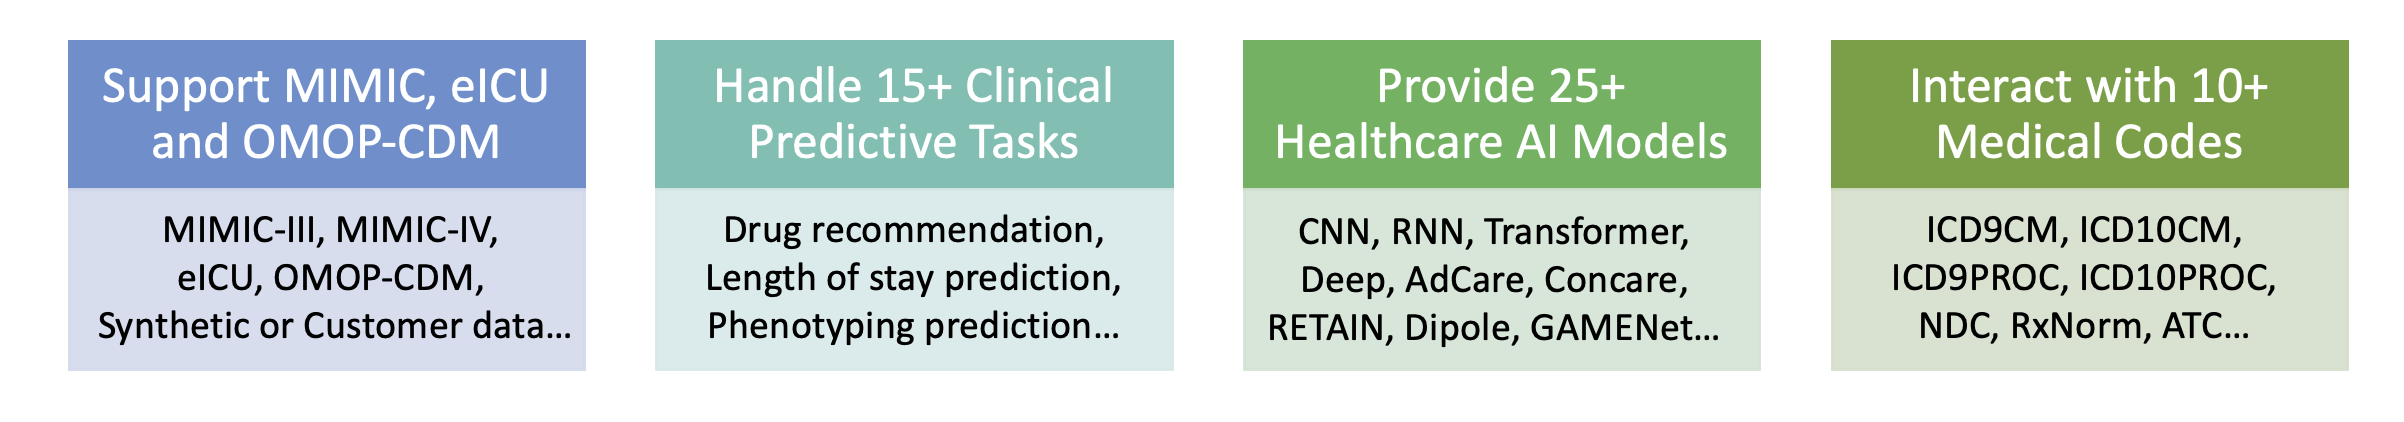
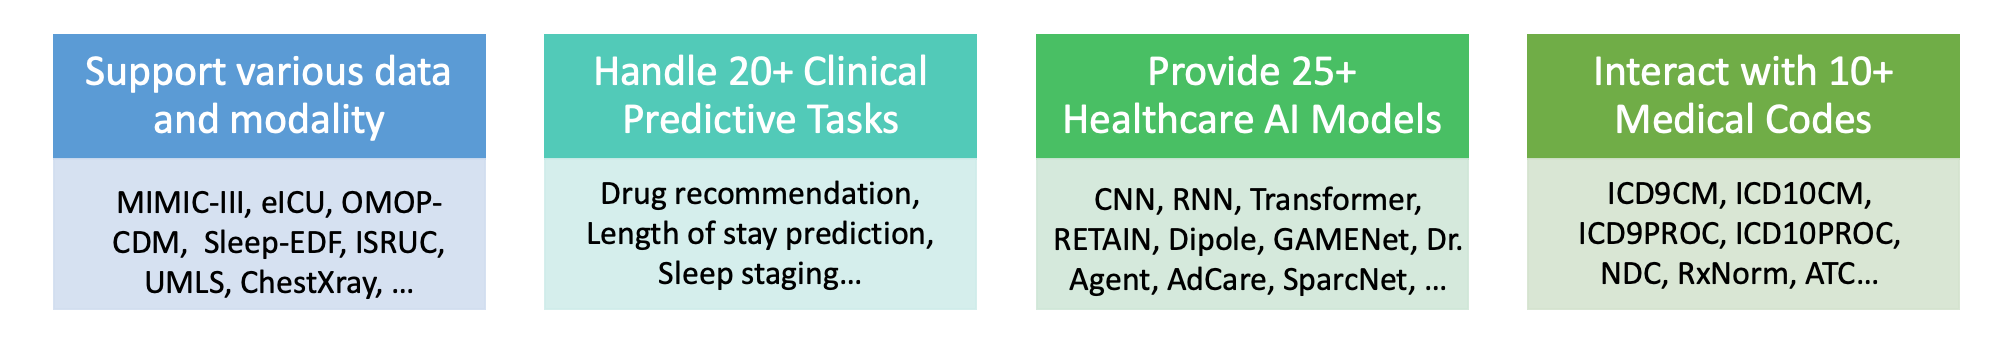
update schedule

diff --git a/docs/index.md b/docs/index.md
@@ -53,45 +53,38 @@ Authors:
 ---
 
 
-<img src="assets/images/poster.png" style="border-radius: 0%;" width="620">
+<img src="assets/images/poster.png" style="border-radius: 0%;" width="720">
 
-PyHealth is designed for both **ML researchers and medical practitioners**. We can make your **healthcare AI applications** easier to deploy and more flexible and customizable.
+PyHealth is designed for both **ML researchers and medical practitioners**. We can make your **healthcare AI applications** easier to deploy, test and validate. Your development process becomes more flexible and more customizable.
 
-## 1. Installation
-
-- You could install from PyPi:
 ```
 pip install pyhealth
 ```
-- or from github source:
-```
-pip install .
-```
 
-## 2. Introduction
+## 1. Introduction
 ``pyhealth`` provides these functionalities (we are still enriching some modules):
 
 <img src="assets/images/overview.png" style="border-radius: 0%;"  width="770">
 
 You can use the following functions independently:
 
-- **Dataset**: ``MIMIC-III``, ``MIMIC-IV``, ``eICU``, ``OMOP-CDM``, ``customized EHR datasets``, etc.
-- **Tasks**: ``diagnosis-based drug recommendation``, ``patient hospitalization and mortality prediction``, ``length stay forecasting``, etc. 
-- **ML models**: ``CNN``, ``LSTM``, ``GRU``, ``LSTM``, ``RETAIN``, ``SafeDrug``, ``Deepr``, etc.
+- **Dataset**: ``MIMIC-III``, ``MIMIC-IV``, ``eICU``, ``OMOP-CDM``, ``Sleep-EDF``, ``Chest X-ray``, ``ISURC``, etc.
+- **Tasks**: ``diagnosis-based drug recommendation``, ``patient hospitalization and mortality prediction``, ``sleep staging``, ``chest disease classificatio``, etc. 
+- **ML models**: ``CNN``, ``LSTM``, ``GRU``, ``LSTM``, ``RETAIN``, ``SafeDrug``, ``Deepr``, ``SparcNet``, ``ContraWR``, ``GAMENet``, etc.
 
 *Build a healthcare AI pipeline can be as short as 10 lines of code in PyHealth*.
 
 
-## 3. Build ML Pipelines
+## 2. Build ML Pipelines
 
 All healthcare tasks in our package follow a **five-stage pipeline**: 
 <img src="assets/images/five-stage-pipeline.png" style="border-radius: 0%;"  width="640">
 
- We try hard to make sure each stage is as separate as possibe, so that people can customize their own pipeline by only using our data processing steps or the ML models.
+We try hard to ensure the modules are independent, so that people can customize their own pipeline by only using parts of our pipelines, such as using data processing steps or borrowing the ML models.
 
 
 
-## 4. Medical Code Map
+## 3. Medical Code Map
 
 ``pyhealth.codemap`` provides two core functionalities. **This module can be used independently.**
 
@@ -105,8 +98,7 @@ icd9cm.lookup("428.0")
 # `Congestive heart failure, unspecified`
 
 atc = InnerMap.load("ATC")
-atc.lookup("M01AE51")
-# `ibuprofen, combinations`
+atc.lookup("M01AE51") # `ibuprofen, combinations`
 atc.lookup("M01AE51", "description")
 # Ibuprofen is a non-steroidal anti-inflammatory drug (NSAID) derived ...
 ```
@@ -117,11 +109,10 @@ atc.lookup("M01AE51", "description")
 from pyhealth.medcode import CrossMap
 
 codemap = CrossMap.load("ICD9CM", "CCSCM")
-codemap.map("428.0")
-# ['108']
+codemap.map("428.0") # ['108']
 ```
 
-## 5. Medical Code Tokenizer
+## 4. Medical Code Tokenizer
 
 ``pyhealth.tokenizer`` is used for transformations between string-based tokens and integer-based indices, based on the overall token space. We provide flexible functions to tokenize 1D, 2D and 3D lists. **This module can be used independently.**
 ```python
@@ -140,7 +131,7 @@ tokenizer = Tokenizer(tokens=token_space, special_tokens=["<pad>", "<unk>"])
 ...
 ```
 
-## 6. Colab Tutorials
+## 5. Colab Tutorials
 
 We provide the following colab tutorials to help users get started with our pyhealth. 
 
@@ -186,59 +177,66 @@ The following colab tutorials will help users build their own task pipelines.
 
 - [Advanced Tutorial 4: Load your own processed data into pyhealth and try out our ML models](https://colab.research.google.com/drive/1ZRnKch2EyJLrI3G5AvDXVpeE2wwgBWfw?usp=sharing) [[Video]](https://www.youtube.com/watch?v=xw2hGLEQ4Y0&list=PLR3CNIF8DDHJUl8RLhyOVpX_kT4bxulEV&index=13)
 
-## 7. KDD Tutorial Schedule
-### 7.1 Introduction to PyHealth (20 minutes)
+## 6. KDD Tutorial Schedule
+We will release the slides and colab notebooks on [Google Drive](https://drive.google.com/drive/folders/10SRErhMgmwIvBwafp_YmaZEziOhYTaYk?usp=sharing) before the tutorial.
+### 6.1 Introduction to PyHealth (20 min)
 We will use slides to present this part.
-- background and motivation of pyhealth
-- overview of modules and current status
-- useful pyhealth resources (documentation, unit tests, colab notebooks, YouTube videos)
+- Background and motivations.
+- Key features of PyHealth.
+- Quickstart examples.
 
-### 7.2 PyHealth for EHR modeling (40 minutes)
+### 6.2 PyHealth for EHR (40 min)
 We will use slides as well as colab notebooks to present.
-- five-stage pipeline architecture (dataset loading, task processing, model initialization, training, and evaluation)
-- supported EHR datasets (MIMIC-III, MIMIC-IV, eICU, OMOP) and their stored structures in pyhealth
-- how the healthcare task functions are defined
-- how to initialize the healthcare AI model
-- how to train then model (list the models that we can used for this data modality)
-- how to conduct evaluate
+- Introduce the five-stage pipeline
+- (Stage 1) Load EHR datasets, such as MIMIC-III, MIMIC-IV, eICU, OMOP-CDM
+- (Stage 2) Define healthcare tasks, such as drug recommendation, length of stay prediction.
+- (Stage 3) Initialize healthcare AI models, such as RETAIN, GAMENet, MICRON, and SafeDrug.
+- (Stage 4) Train the model.
+- (Stage 5) Evaluate the model.
 
-### 7.3 PyHealth for medical code mapping (10 minutes)
+It is worth noting that the same five-stage pipeline applies to other data modalities as well. Therefore, we will focus on introducing the datasets, tasks, and models in the subsequent sections.
+
+### 6.3 PyHealth for physiological signals (20 min)
 We will use slides as well as colab notebooks to present.
-- We currently support common diagnosis standards (e.g., xxx), procedure standards (e.g., xxx), drug standards (e.g., xxx).
-- demo on medical code look up within one standard
-- demo on medical code mapping across two standards
+- Overview of biosignal datasets supported by PyHealth, such as ISRUC, Sleep-EDF, and SHHS.
+- Introduce existing biosignal models in PyHealth.
+- Demonstrate the sleep staging task on the Sleep-EDF dataset using SparcNet.
 
-### 7.4 PyHealth for physiological signals (20 minutes)
+### 6.4 PyHealth for medical imaging (15 min)
 We will use slides as well as colab notebooks to present.
-- introduce the physiological signal datasets that we support (e.g, ISRUC, Sleep-EDF, SHHS)
-- list the models that we can used for this data modality
-- demo: use sparcnet for sleep staging task on Sleep-EDF.
+- Overview of medical image datasets supported by PyHealth, such as CheXpert, RSNA, COVID, and MIMIC-CXR.
+- Overview of tasks supported by PyHealth, such as x-ray representation learning, chest disease classification, medical report generation.
+- Introduce existing models in PyHealth.
+- Demonstrate the chest disease classification on the COVID dataset using ResNet.
 
-### 7.5 PyHealth for medical imaging (15 minutes)
+### 6.5 PyHealth for biomedical text mining (15 min)
 We will use slides as well as colab notebooks to present.
-- introduce the medical image datasets that we support (e.g, xxx)
-- list the models that we can used for this data modality
-- demo: use xxx for xxx task on xxx.
+- Overview of medical text datasets supported by PyHealth, such as MIMIC-III clinical notes, MIMIC-CXR, and IU-XRay.
+- Overview of tasks supported by PyHealth, such as clinical notes classification and medical report generation.
+- Introduce existing models in PyHealth.
+- Demonstrate on radiology reports generation from x-ray images.
 
-### 7.6 PyHealth for biomedical text mining (15 minutes)
+### 6.6 PyHealth pre-trained embedding (30 min) 
 We will use slides as well as colab notebooks to present.
-- introduce the biomedical text datasets that we support (e.g, xxx)
-- list the models that we can used for this data modality
-- demo: use xxx for xxx task on xxx.
+- Overview of the medical knowledge base, including the supported medical coding systems, code mappings, and 
+- Medical concept lookup.
+- Medical code mapping.
+- Pre-trained medical concepte embeddings.
+- Demo: Leveraing the UMLS knowledge graph embedding to improve drug recommendation task on the MIMIC-III dataset.
 
-### 7.7 PyHealth pre-trained embedding (30 minutes) 
+### 6.7 PyHealth uncertainty quantification and model calibration (30 min)
 We will use slides as well as colab notebooks to present.
-- introduce that our package supports biomedical concept embedding (KG embedding)
-- what embeddings we have supported (from what resources)
-- demo: use the UMLS KG embedding to improve drug recommendation task on MIMIC-III
+- Introduction of basic concepts and common post-hoc tasks in uncertainty quantification, such as model calibration,  prediction set construction and prediction interval construction. 
+- How to perform such tasks on arbitrary PyHealth models, after the training is done (which is why this is post-hoc).
+- (Demo 1) We will use Temperature Scaling, Historgram Binning, and Kernel-based Calibration to calibrate a trained SPaRCNet, used for sleep staging task on the ISRUC dataset. (show some plots to let user understand the concepts)
+- (Demo 2) We will use conformal prediction (LABEL) to construct prediction set with guarantee on the mis-coverage risk, again on a trained SPaRCNet on sleep staing task with the ISRUC dataset. 
 
-### 7.8 PyHealth uncertainty quantification (30 minutes)
-We will use slides as well as colab notebooks to present.
-- briefly introduce prediction sets and prediction interval
-- list the models that we can use for this module
-- demo: use xxx for xxx task on xxx. (show some plots to let user understand the concepts)
-
-## 8. PyHealth Tutors
+### 6.8 Conclusion (10 min)
+- A brief summary of the benefits of using PyHealth.
+- Future development plans for PyHealth.
+- A call for contributions from the community.
+- Useful resources for PyHealth users.
+## 7. PyHealth Tutors
 
 {% include team.html id="Authors" %}
 
